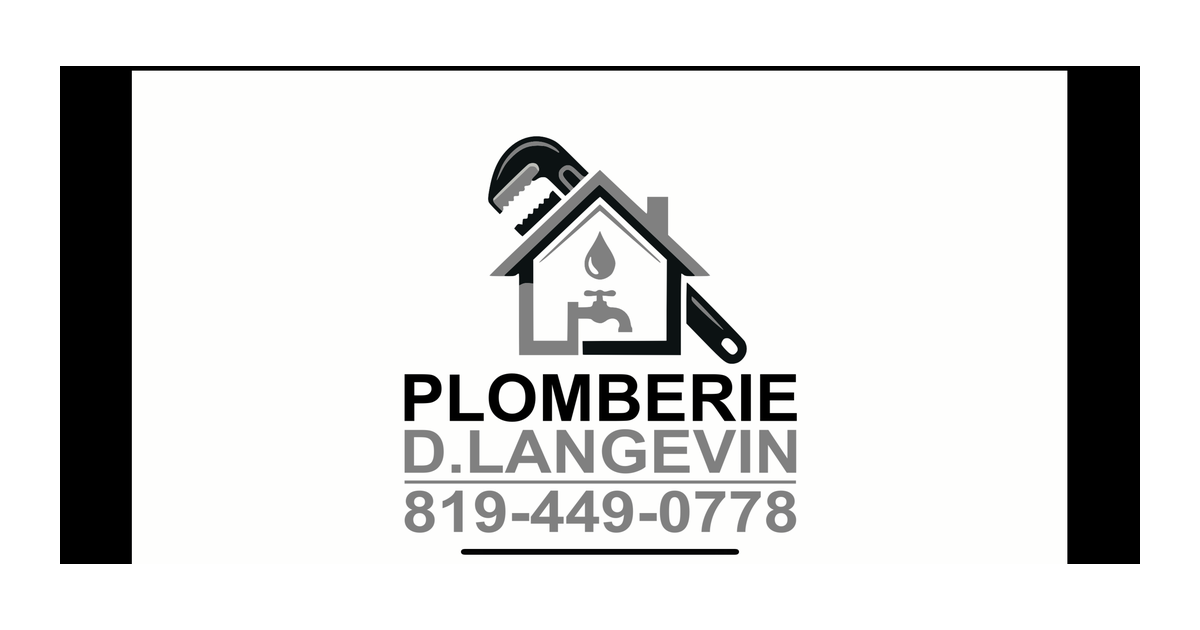
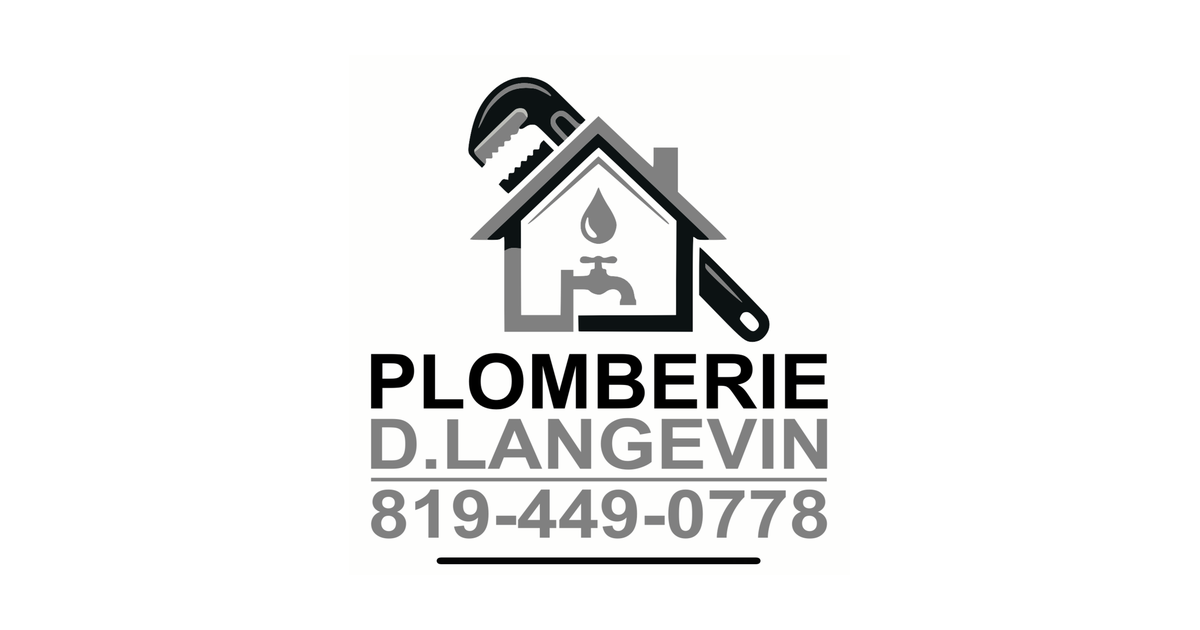
Trim black letterbox from the official phone lockup.
The source file is 2796×1290 with side bars; keep the full wordmark and
819-449-0778 line, then size the PNG for header and footer use.

Changed region(s): [[0.0308, 0.0905, 0.9558, 0.9048]]

diff --git a/components/landing-page.tsx b/components/landing-page.tsx
@@ -365,7 +365,7 @@ export function LandingPage() {
         >
           <div className="flex items-center gap-4">
             <div className="rounded-lg border border-stone-200/80 bg-white px-2 py-1.5 shadow-sm">
-              <Logo decorative className="h-12 w-auto object-contain" />
+              <Logo decorative className="h-14 w-auto object-contain" />
             </div>
             <div>
               <p className="font-semibold text-brand">{t.footer.rights}</p>

diff --git a/components/logo.tsx b/components/logo.tsx
@@ -1,8 +1,8 @@
 const LOGO_PNG = "/logo.png";
 const LOGO_SVG = "/logo.svg";
-/** Intrinsic size of public/logo.png (official lockup + phone, web-optimized). */
-export const LOGO_WIDTH = 1398;
-export const LOGO_HEIGHT = 645;
+/** Intrinsic size of public/logo.png (official lockup + phone, black bars removed). */
+export const LOGO_WIDTH = 1059;
+export const LOGO_HEIGHT = 1100;
 
 type LogoProps = {
   className?: string;
